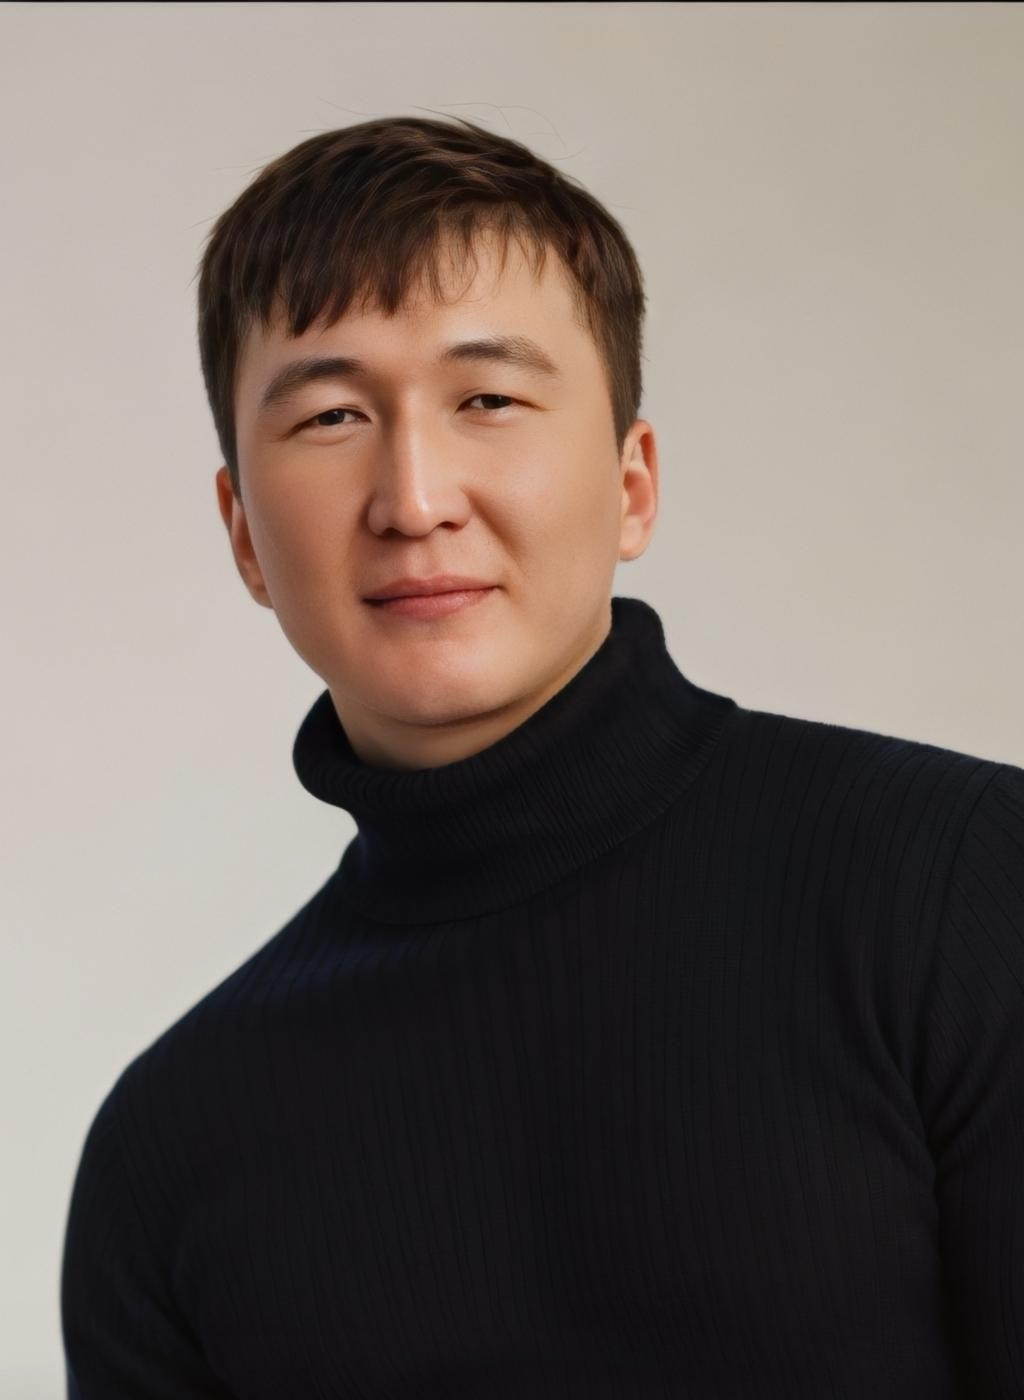
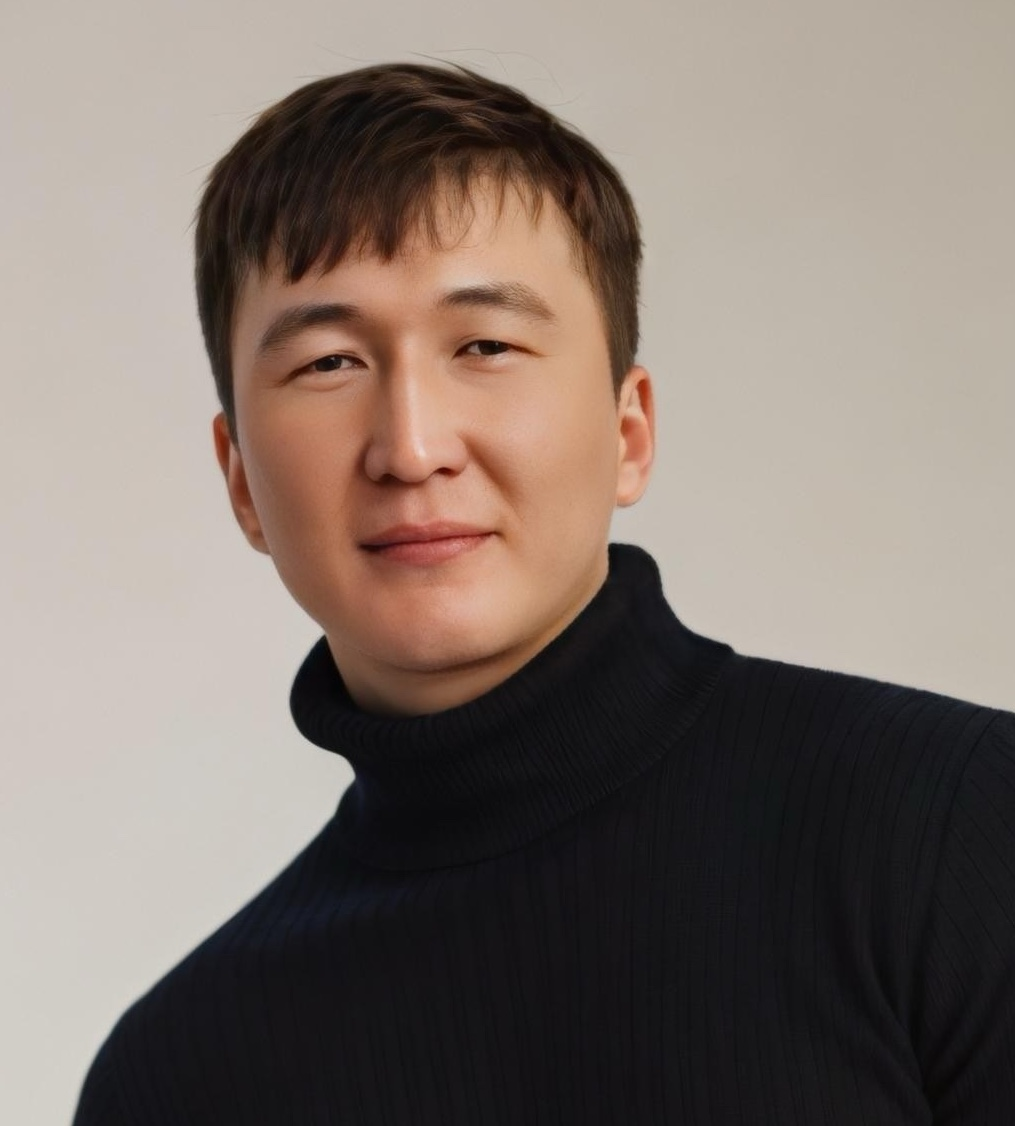
added final changes

Changed region(s): [[0.0305, 0.0311, 1.0, 1.0], [0.5498, 0.2176, 0.5803, 0.2487], [0.1833, 0.1554, 0.2138, 0.1865]]

diff --git a/src/components/workBenefit/WorkingBenefit.css b/src/components/workBenefit/WorkingBenefit.css
@@ -113,16 +113,16 @@
   font-weight: bold;
 }
 @media screen and (max-width:950px) {
-  .savings-item-long{
+  /* .savings-item-long{
     background-color:pink;
-    /* width: 50%; */
-    /* width: 40%; */
     text-align: center;
     display: flex;
     flex-direction: column;
     justify-content: center;
+    align-items:flex-end;
+    background-color:yellow;
     margin: 0 auto;
-  }
+  } */
   .savings-main-block{
     padding: 45px 15px;
   }
@@ -136,6 +136,9 @@
 .savings-grid{
   flex-direction: column;
   align-items:center;
+}
+.savings-grid-2 {
+  flex-direction: column;
 }
 .savings-card{
   width: 60%;
@@ -185,13 +188,16 @@
   .css-66gjpw-MuiResponsiveChart-container>svg{
     margin-left: 50px;
   }
-  .savings-grid-2{
+  /* .savings-grid-2{
     flex-direction: column;
-    /* background-color:green ; */
-    justify-content: center; /* Центрирование по горизонтали */
+    justify-content: center;
     align-items: center; 
 
-  }
+  } */
+   .savings-card-percent {
+    width: 100%;
+    background-color:red
+   }
   
 }
 @media screen and (max-width:500px) {

diff --git a/src/components/workBenefit/WorkBenefit.js b/src/components/workBenefit/WorkBenefit.js
@@ -163,7 +163,7 @@ const WorkBenefit = () => {
         ].map((data, index) => (
           <div key={index} className='savings-item savings-card'>
               <div className='savings-title'>{index === 0 ? t("Savings on Salary") : t("Savings on Employer Social Contributions")}</div>
-              <h2>
+              {/* <h2> */}
             <PieChart
               series={[
                 {
@@ -177,7 +177,7 @@ const WorkBenefit = () => {
               height={chartWidth / 2}
               
             />
-            </h2>
+            {/* </h2> */}
             <h2>{data.label} {t("saved")}</h2>
           </div>
         ))}

diff --git a/src/pages/Employees.js b/src/pages/Employees.js
@@ -1,7 +1,7 @@
 import React, { useState } from "react";
 import "../styles/Employees.css";
 import Aizaada from "../assets/team/Aizaada.png";
-import Adilet from "../assets/team/Adilet.jpg";
+import Adilet from "../assets/team/AdiletRyskulov.jpg";
 import linkedin from "../assets/employeesImgs/LinkedIn.png";
 import DevOperations from "../components/ui/devOperations/DevOperations";
 import { useTranslation } from "react-i18next";

diff --git a/src/components/team/Team.js b/src/components/team/Team.js
@@ -1,7 +1,7 @@
 import React from "react";
 import Askat from "../../assets/team/Askat.jpg";
 import Farkhat from "../../assets/team/Farkhat.jpg";
-import Adilet from "../../assets/team/Adilet.jpg";
+import Adilet from "../../assets/team/AdiletRyskulov.jpg";
 import Aizaada from '../../assets/team/Aizaada.png';
 import { NavLink } from "react-router-dom";
 import LD from "../../assets/logoLinks/LinkedIn.svg";

diff --git a/src/components/workingTogether/WorkingTogether.css b/src/components/workingTogether/WorkingTogether.css
@@ -126,8 +126,9 @@
   
     }
     .contact-img {
-      max-width: 100vw;
-      height: 80vh;
+      /* max-width: 100vw;
+      height: 80vh; */
+      display: none;
     }
   }
   @media screen and (max-width: 385px) {

diff --git a/src/components/team/Team.css b/src/components/team/Team.css
@@ -41,7 +41,7 @@
   
   }
   .image-container img {
-    max-width: 100%;
+    width: 100%;
     height: 100%;
     object-fit: cover;
     object-position: center;
